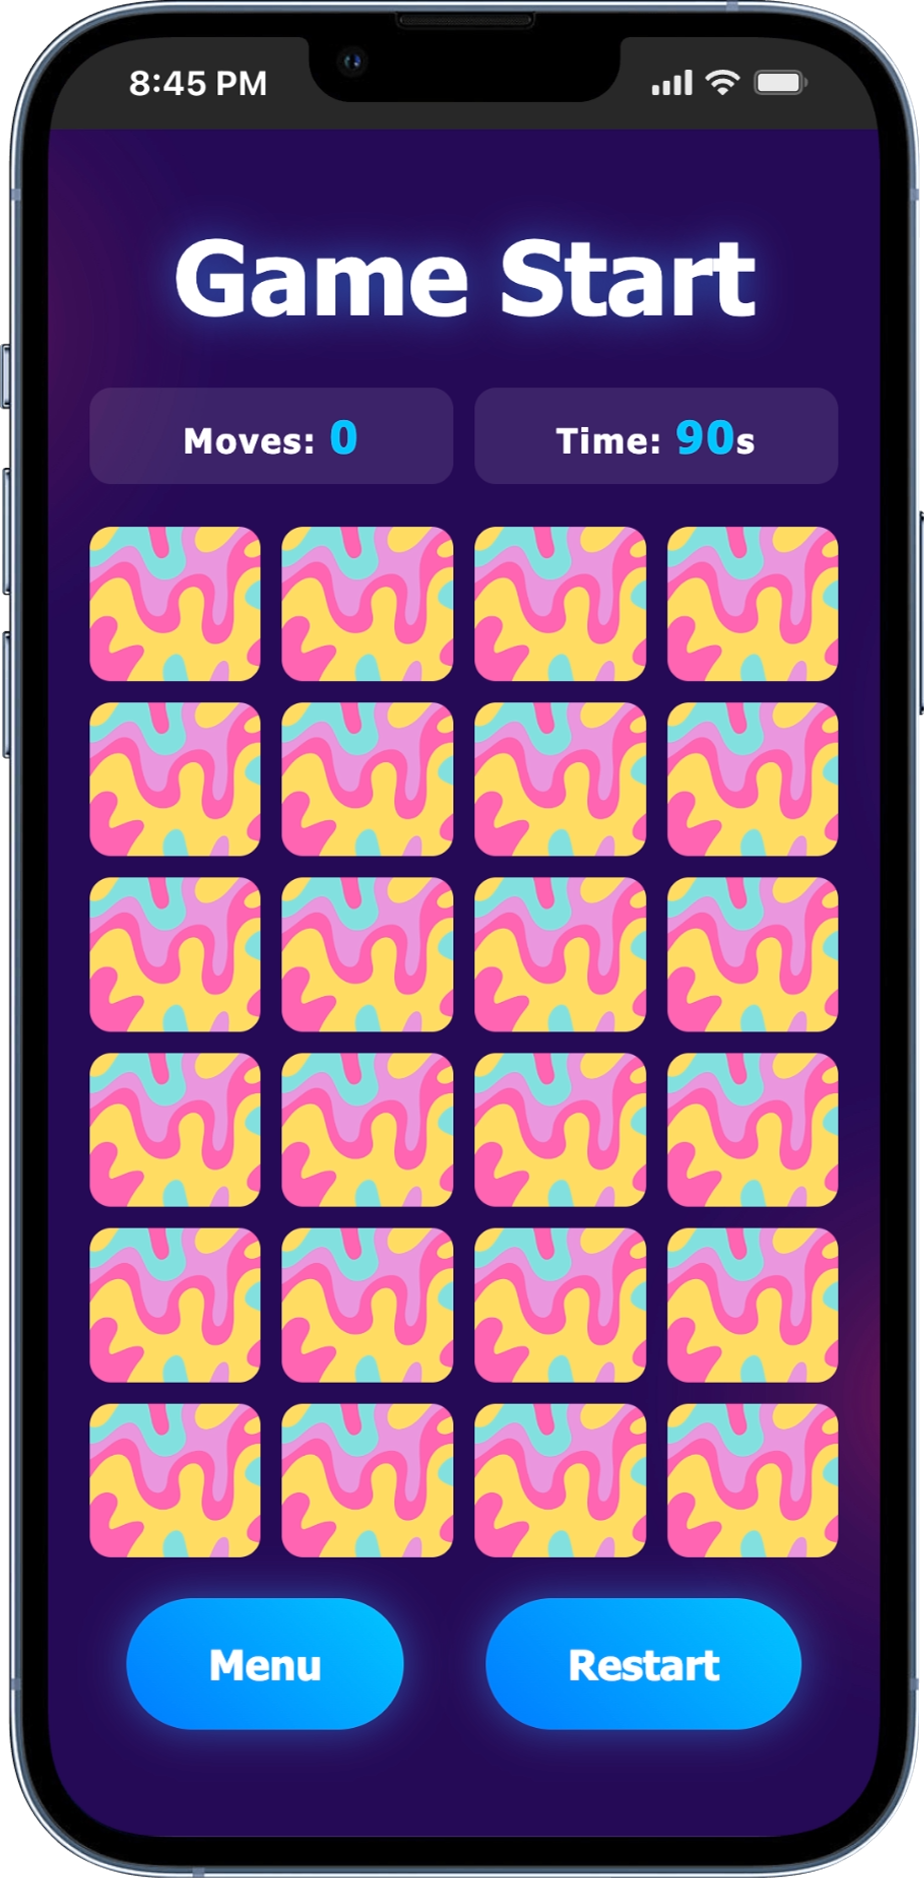
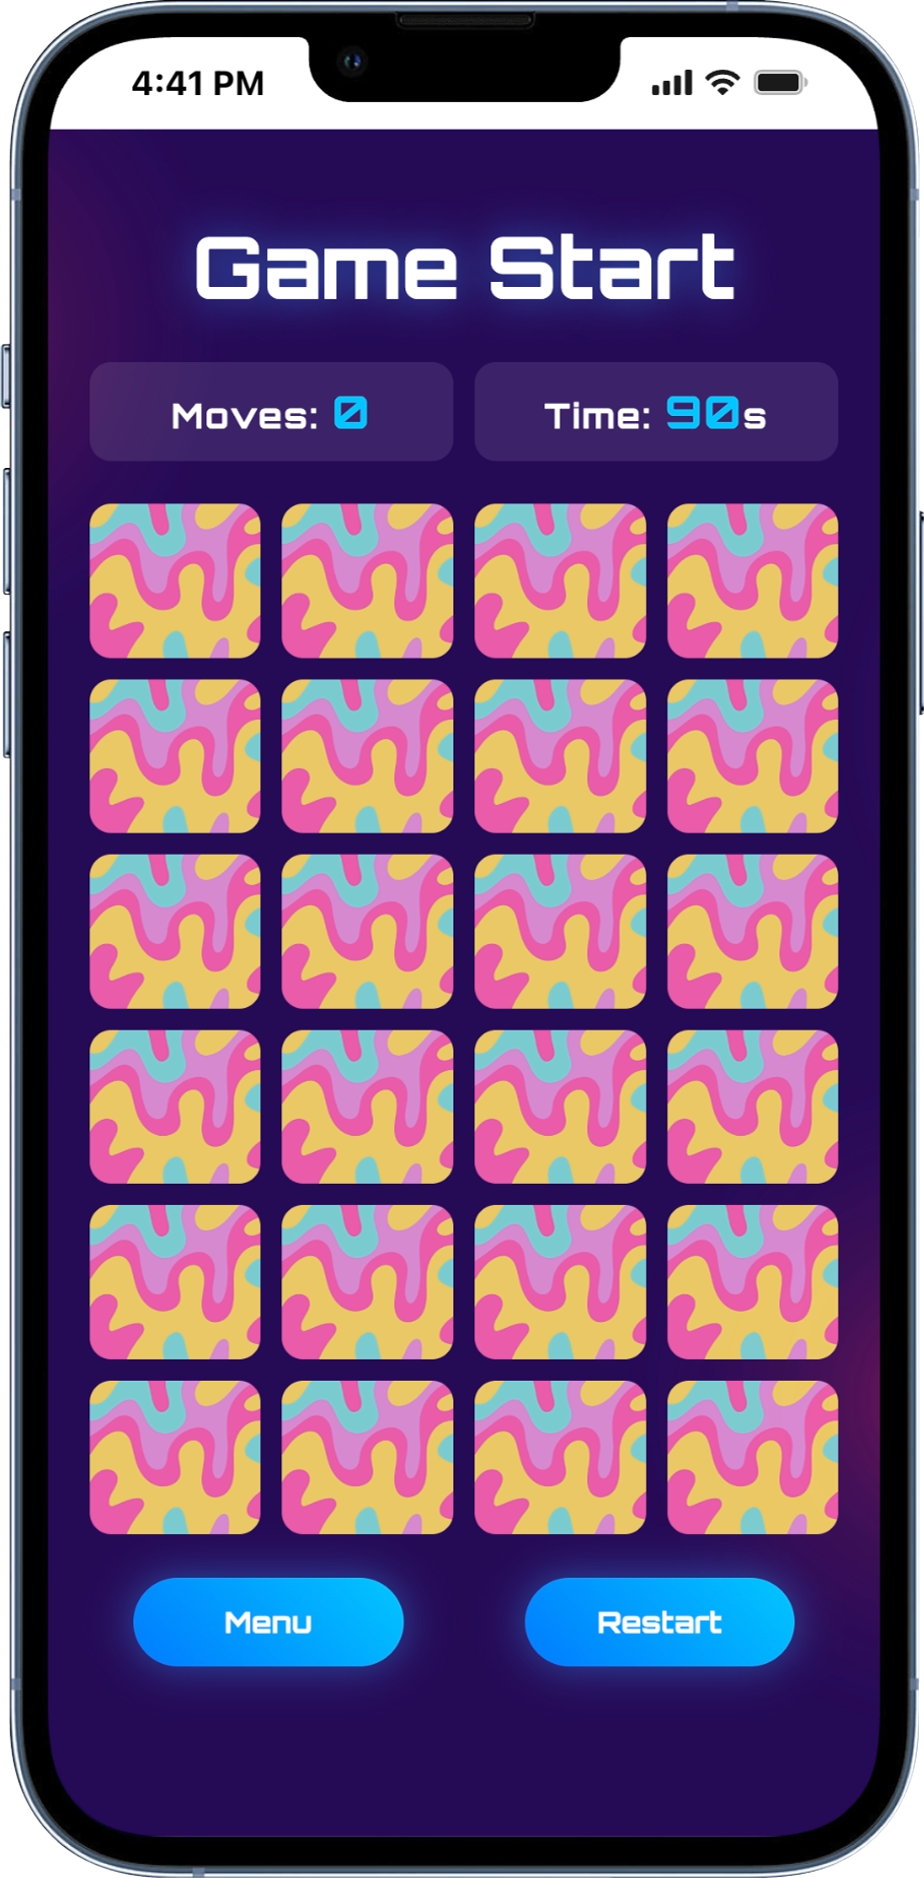
Change image of Memory Game's project, add link to live demo of Memory Game and change name of view demo button

diff --git a/src/components/Projects.tsx b/src/components/Projects.tsx
@@ -25,7 +25,7 @@ const Projects = () => {
       tech: ["JavaScript", "HTML", "CSS"],
       image: "/images/projects/memory-game.png",
       github: "https://github.com/tracytratran/memory-game",
-      demo: "",
+      demo: "https://tracytratran.github.io/memory-game/frontend/",
     },
   ];
 
@@ -126,7 +126,7 @@ const Projects = () => {
                       ? {}
                       : { "aria-disabled": true, tabIndex: -1 })}
                   >
-                    View Demo
+                    View Live Demo
                   </a>
                   <a
                     href={project.github || "#"}
